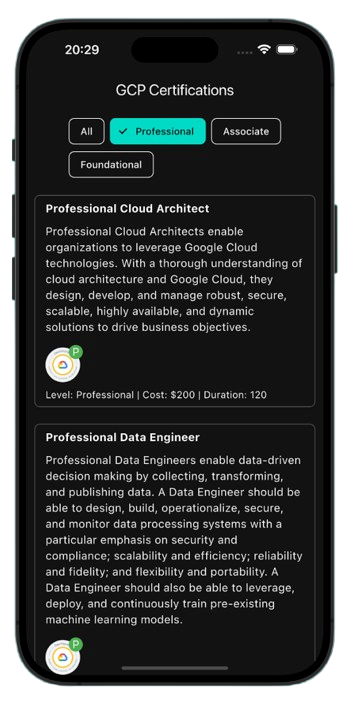
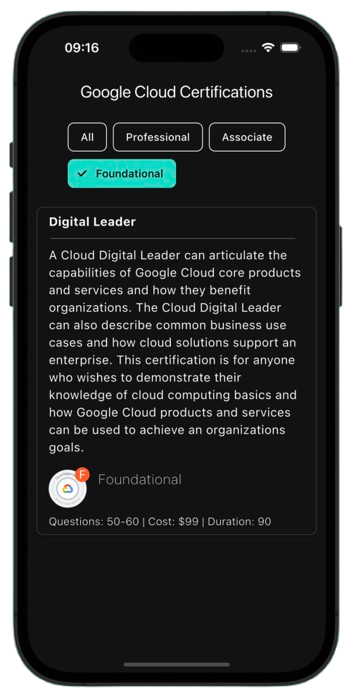
Add: Updated image + tab functionality

Changed region(s): [[0.0, 0.0, 0.966, 0.99], [0.187, 0.06, 0.2805, 0.09]]

diff --git a/lib/utility/utility.dart b/lib/utility/utility.dart
@@ -15,21 +15,21 @@ Widget buildSectionCertLabels(String content, String imageLink) {
   }
 }
 
-Widget _buildLabel(String label, Color color) {
-  return Padding(
-      padding: const EdgeInsets.only(right: 5),
-      child: badges.Badge(
-        // badgeStyle: const badges.BadgeStyle(badgeColor: Colors.red),
-        badgeStyle: badges.BadgeStyle(badgeColor: color),
-        badgeContent: Text(
-          label,
-          style: const TextStyle(color: Colors.white, fontSize: 16),
-        ),
-        position: badges.BadgePosition.topEnd(top: -10, end: -4),
-        // child: const Icon(Icons.event_note_outlined, size: 40),
-        child: const Icon(Icons.person, size: 40),
-      ));
-}
+// Widget _buildLabel(String label, Color color) {
+//   return Padding(
+//       padding: const EdgeInsets.only(right: 5),
+//       child: badges.Badge(
+//         // badgeStyle: const badges.BadgeStyle(badgeColor: Colors.red),
+//         badgeStyle: badges.BadgeStyle(badgeColor: color),
+//         badgeContent: Text(
+//           label,
+//           style: const TextStyle(color: Colors.white, fontSize: 16),
+//         ),
+//         position: badges.BadgePosition.topEnd(top: -10, end: -4),
+//         // child: const Icon(Icons.event_note_outlined, size: 40),
+//         child: const Icon(Icons.person, size: 40),
+//       ));
+// }
 
 Widget _buildCertLabel(String label, String image, Color color) {
   return Padding(

diff --git a/lib/cert_page.dart b/lib/cert_page.dart
@@ -207,7 +207,7 @@ class _CertificationPageState extends State<CertificationPage> {
                                     ),
                                   ),
                                 ),
-                                SizedBox(height: 10.0),
+                                const SizedBox(height: 10.0),
                                 const Divider(
                                   height: 1.0,
                                   thickness: 0.5,
@@ -244,7 +244,7 @@ class _CertificationPageState extends State<CertificationPage> {
                                       // Labels (Announcement, Fixed, Security)
                                       // buildSectionLabels(examItem.level),
                                       buildSectionCertLabels(examItem.level, examItem.image),
-                                      SizedBox(width: 10.0),
+                                      const SizedBox(width: 10.0),
                                       Text(
                                         examItem.level,
                                         style: const TextStyle(

diff --git a/lib/pages/cert_tab.dart b/lib/pages/cert_tab.dart
@@ -112,7 +112,7 @@ class CertificationTabPage extends StatelessWidget {
                   ),),
               ),
             ),
-            SizedBox(height: 10.0),
+            const SizedBox(height: 10.0),
         
           ],
         ),
